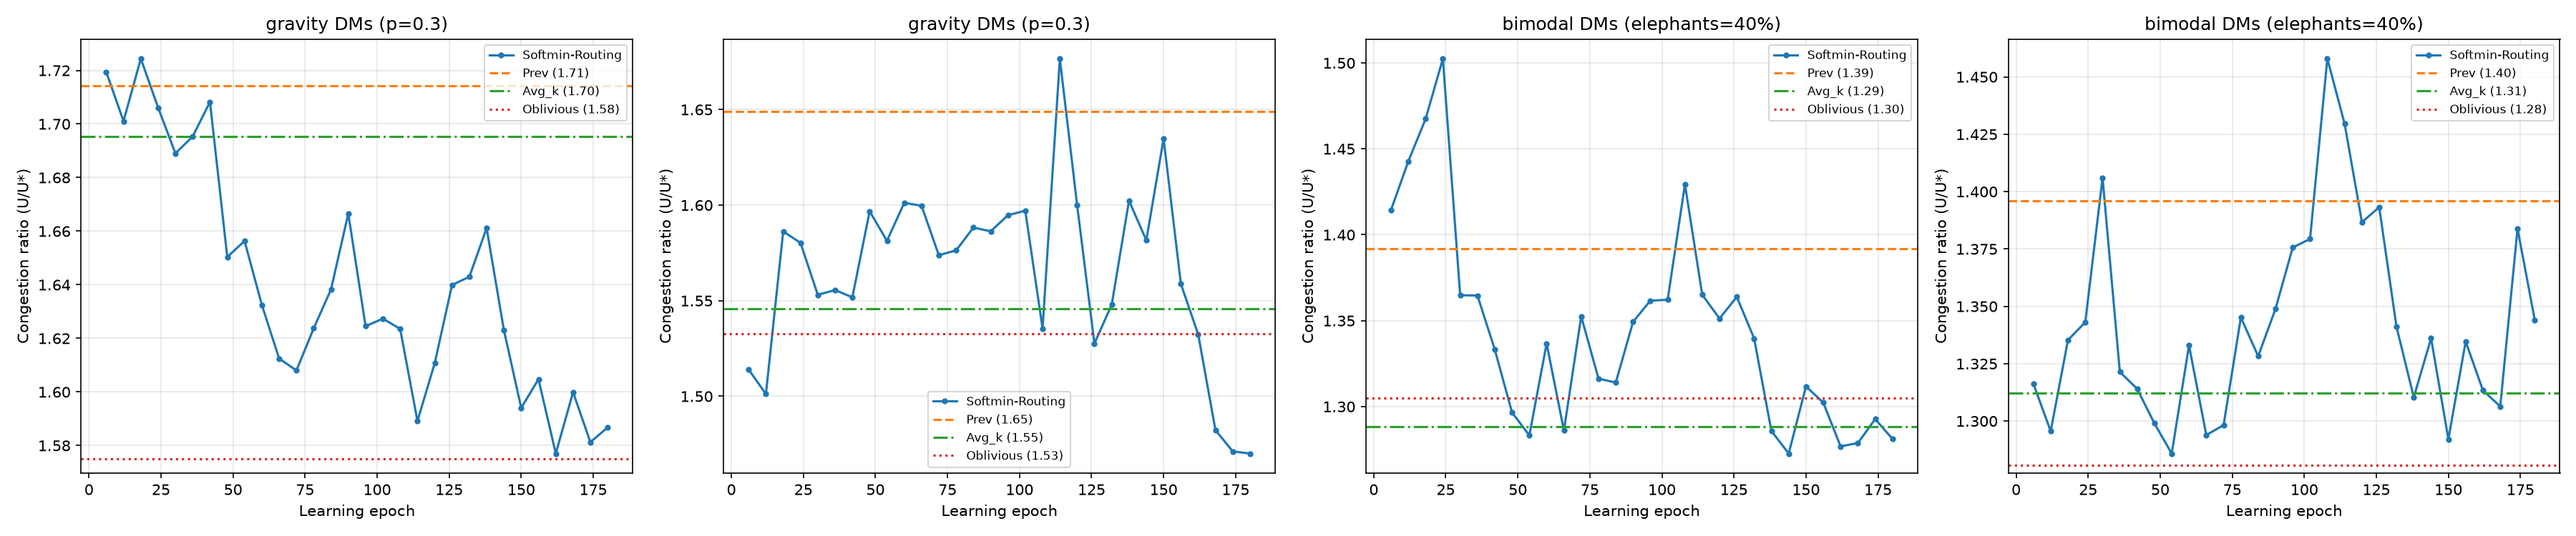
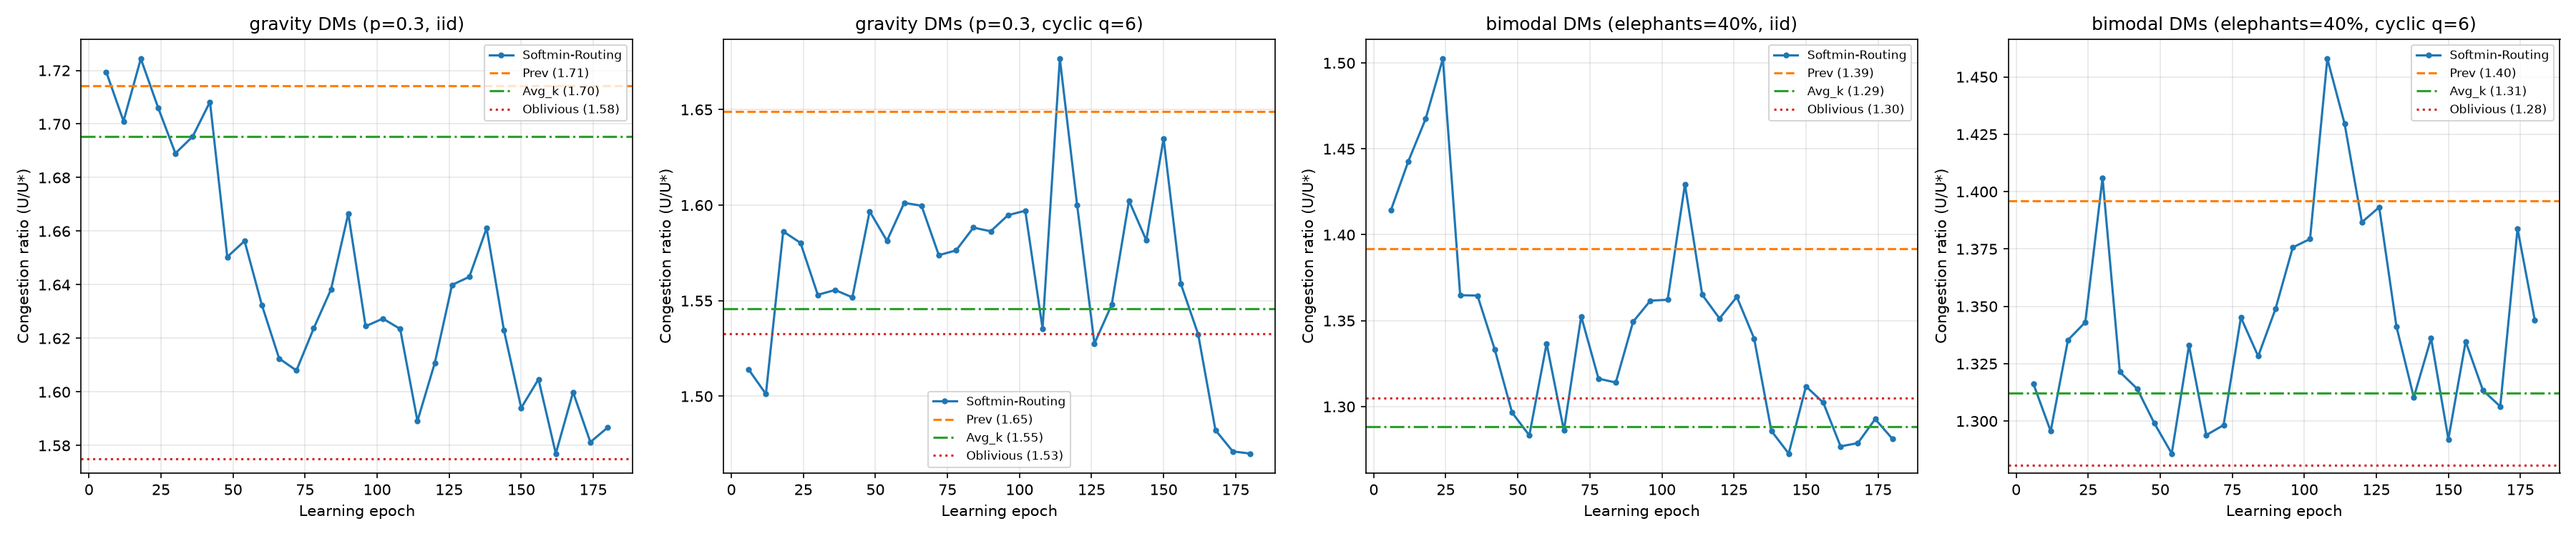
Fix stale figures, align README eval bases add DDPG training curves and full build history

diff --git a/eval/plot.py b/eval/plot.py
@@ -56,9 +56,11 @@ def plot_comparison_grid(runs: Dict[str, Dict], save_path: str):
 
         cfg = data["config"]
         model = cfg["traffic_model"]
+        mode = "cyclic q={}".format(cfg.get("cyclic_q", 6)) \
+            if cfg.get("sequence_mode") == "cyclic" else "iid"
         extra = (f"p={cfg['sparsity']}" if model == "gravity"
                  else f"elephants={int(cfg['elephant_frac']*100)}%")
-        ax.set_title(f"{model} DMs ({extra})")
+        ax.set_title(f"{model} DMs ({extra}, {mode})")
         ax.set_xlabel("Learning epoch")
         ax.set_ylabel("Congestion ratio (U/U*)")
         ax.grid(True, alpha=0.3)
@@ -122,6 +124,72 @@ def plot_method_grid(all_results: Dict[str, Dict], save_path: str):
         ax.set_ylabel("Congestion ratio (U/U*)")
         ax.grid(True, axis="y", alpha=0.3)
 
+    fig.tight_layout()
+    path = Path(save_path)
+    path.parent.mkdir(parents=True, exist_ok=True)
+    fig.savefig(path, dpi=150)
+    plt.close(fig)
+    print(f"saved {path}")
+
+
+def plot_ddpg_training(data: Dict, title: str, save_path: str):
+    epochs = [e["epoch"] for e in data["history"]]
+    reward = [e["train_reward_mean"] for e in data["history"]]
+    ratio_eps, ratio = [], []
+    delay_eps, delay = [], []
+    loss_eps, loss = [], []
+    for e in data["history"]:
+        if "test_agent_ratio_mean" in e and np.isfinite(e["test_agent_ratio_mean"]):
+            ratio_eps.append(e["epoch"])
+            ratio.append(e["test_agent_ratio_mean"])
+        if "test_agent_delay_mean" in e and np.isfinite(e["test_agent_delay_mean"]):
+            delay_eps.append(e["epoch"])
+            delay.append(e["test_agent_delay_mean"])
+        if "test_agent_loss_fraction_mean" in e and np.isfinite(e["test_agent_loss_fraction_mean"]):
+            loss_eps.append(e["epoch"])
+            loss.append(e["test_agent_loss_fraction_mean"])
+
+    fig, axes = plt.subplots(1, 3, figsize=(15, 4.2))
+    axes[0].plot(epochs, reward, color="tab:purple", linewidth=1.5)
+    axes[0].set_title("Training reward R(s,a)", fontsize=10)
+    axes[1].plot(ratio_eps, ratio, marker="o", markersize=3, color="tab:blue")
+    axes[1].set_title("Test congestion ratio (U/U*)", fontsize=10)
+    axes[2].plot(loss_eps, loss, color="tab:red", linewidth=1.5, label="loss frac")
+    ax2 = axes[2].twinx()
+    ax2.plot(delay_eps, delay, color="tab:green", linewidth=1.2)
+    ax2.set_ylabel("mean delay (s)", fontsize=8)
+    axes[2].set_title("Packet loss + delay", fontsize=10)
+    axes[2].legend(loc="upper left", fontsize=7)
+
+    for ax in axes:
+        ax.set_xlabel("Learning epoch")
+        ax.grid(True, alpha=0.3)
+    fig.suptitle(title, fontsize=11)
+    fig.tight_layout()
+    path = Path(save_path)
+    path.parent.mkdir(parents=True, exist_ok=True)
+    fig.savefig(path, dpi=150)
+    plt.close(fig)
+    print(f"saved {path}")
+
+
+def plot_epoch_sweep(sweep_rows: list, save_path: str):
+    eps = [r["epochs"] for r in sweep_rows]
+    fig, ax = plt.subplots(figsize=(8.5, 5))
+    ax.plot(eps, [r["PPO"] for r in sweep_rows], marker="o",
+            color="tab:blue", label="PPO-softmin")
+    ax.plot(eps, [r["DDPG-TD3"] for r in sweep_rows], marker="s",
+            color="tab:purple", label="DDPG-SDN (TD3)")
+    ax.axhline(1.575, ls="--", c="tab:red", label="Oblivious (180-ep ref)")
+    ax.set_xscale("log")
+    ax.set_xticks(eps)
+    ax.set_xticklabels([str(e) for e in eps])
+    ax.get_xaxis().set_minor_locator(matplotlib.ticker.NullLocator())
+    ax.set_xlabel("Training epochs (log scale)")
+    ax.set_ylabel("Congestion ratio (U/U*)")
+    ax.set_title("Epoch sweep - gravity regime", fontsize=11)
+    ax.grid(True, alpha=0.3, which="both")
+    ax.legend(fontsize=9)
     fig.tight_layout()
     path = Path(save_path)
     path.parent.mkdir(parents=True, exist_ok=True)

diff --git a/main.py b/main.py
@@ -100,8 +100,18 @@ def run_sdn_config(name: str, overrides: dict, outroot: str) -> dict:
     print(f"\n=== running SDN-DDPG config '{name}' -> {outdir} ===")
     trainer.run()
 
+    from eval.plot import plot_ddpg_training
     with open(Path(outdir) / "metrics.json") as f:
-        return json.load(f)
+        data = json.load(f)
+    model = params.get("traffic_model", "gravity")
+    extra = (f"p={params.get('sparsity')}" if model == "gravity"
+             else f"elephants={int(params.get('elephant_frac', 0.4) * 100)}%")
+    variant = "TD3" if params.get("use_twin_critics") else "paper-DDPG"
+    plot_ddpg_training(
+        data,
+        f"DDPG {variant}: {name} ({extra}, 180 epochs)",
+        str(Path(outdir) / "training_curves.png"))
+    return data
 
 
 def run_compare(configs, results_root: str, stride: int, force: bool,

diff --git a/README.md b/README.md
@@ -80,15 +80,18 @@ ratios - a massive output-space compression that makes learning feasible.
 12-node/34-edge topology · k=10 · γ=2 · PPO 80 epochs · exact-LP normalized
 ratio on held-out test windows (mean U/U*, lower is better):
 
-Both methods here are trained 180 epochs (see §7c for what epochs change).
-Values are mean U/U* over test windows through the shared evaluation stack:
+Both methods here are trained 180 epochs (see §7c/§7d for what epochs
+change). Values = each run's own final evaluation over ALL test windows
+(this matches the embedded per-regime figures below); §7b uses the
+stride-2 five-method protocol, so its numbers differ slightly on cyclic
+regimes - both are raw, neither is hand-adjusted:
 
 | Traffic family            | Agent | Prev  | Avg_k | Oblivious |
 |---------------------------|-------|-------|-------|-----------|
-| Gravity, iid, p=0.3       | **1.591** | 1.706 | 1.753 | 1.575 |
-| Gravity, cyclic q=6       | **1.620** | 1.839 | 1.660 | 1.560 |
-| Bimodal 40%, iid          | **1.295** | 1.471 | 1.231 | 1.258 |
-| Bimodal 40%, cyclic q=6   | **1.442** | 1.629 | 1.387 | 1.402 |
+| Gravity, iid, p=0.3       | **1.587** | 1.706 | 1.753 | 1.575 |
+| Gravity, cyclic q=6       | **1.470** | 1.654 | 1.546 | 1.533 |
+| Bimodal 40%, iid          | **1.281** | 1.471 | 1.288 | 1.305 |
+| Bimodal 40%, cyclic q=6   | **1.344** | 1.396 | 1.312 | 1.281 |
 
 **The learned policy beats Prev in all four regimes** - reproducing the
 paper's central claim. On unpredictable (iid) traffic no history-method can
@@ -121,52 +124,100 @@ baselines (constant by definition). Y-axis = congestion ratio U/U*.
 ## 3. How It Was Made
 
 Built incrementally, one module per step, each proven correct **before**
-building the next thing on top of it:
+building the next thing on top of it - separately for each paper, against
+shared foundations.
 
 ```
-Phase 0  read the paper → docs/PAPER_ANALYSIS_LEARNING_TO_ROUTE.md
-Phase 1  design modules → docs/ARCHITECTURE_LEARNING_TO_ROUTE.md
-Phase 2  graph → traffic → routing → baselines → agent → train → eval
-         (each module ships with its own sanity-test script)
-Phase 3  train on 4 traffic regimes → plots + README (this file)
+Paper 1 (Learning-To-Route)
+  Phase 0  read the paper -> docs/PAPER_ANALYSIS_LEARNING_TO_ROUTE.md
+  Phase 1  design modules -> docs/ARCHITECTURE_LEARNING_TO_ROUTE.md
+  Phase 2  graph -> traffic -> softmin_routing -> baselines -> agent
+           -> train -> eval   (each ships its own sanity-test script)
+  Phase 3  train on 4 traffic regimes -> plots + README
+
+Paper 2 (SDN-DDPG)
+  Phase 0  read the paper -> docs/PAPER_ANALYSIS_SDN_DDPG.md
+  Phase 1  design modules -> docs/ARCHITECTURE_SDN_DDPG.md
+  Phase 2  queue_model -> reward -> forwarding -> agent -> environment
+           -> train -> comparison
+  Phase 3  train all 4 regimes -> five-method comparison vs Paper 1
+           + classical baselines -> README
 ```
 
-Module-by-module, with what each had to prove before moving on:
+### Paper 1 - what each module had to prove standalone
 
-| Step | Module | Had to demonstrate standalone |
+| Step | Module | Had to demonstrate |
 |---|---|---|
-| 1 | `graph/` | Dijkstra matches hand-computed distances on known graphs; topology fully connected; edge↔index mapping consistent |
-| 2 | `traffic/` | gravity model deterministic; bimodal has exactly two demand levels with 10× ratio and correct elephant fraction; sparsify keeps ~p share of pairs; cyclic sequences repeat with exact period |
-| 3 | `routing/` | softmin ratios sum to 1 per neighbor-set and zero elsewhere; γ→∞ recovers shortest-path routing; line graph carries exactly 10 units along 3 edges; symmetric diamond splits 50/50; weighted diamond tilts to the analytically predicted e⁻⁴/(e⁻⁴+e⁻⁶) split |
-| 4 | `baselines/` | Prev recovers the *exact* optimum on a symmetric diamond; Avg_k consistent with Prev on stationary history; Oblivious achieves ratio 1.000 on its own scenarios |
+| 1 | `graph/` | Dijkstra matches hand-computed distances on known graphs; topology fully connected; edge-index mapping consistent |
+| 2 | `traffic/` | gravity model deterministic; bimodal has exactly two demand levels with 10x ratio and correct elephant fraction; sparsify keeps ~p share of pairs; cyclic sequences repeat with exact period |
+| 3 | `softmin_routing/` | ratios sum to 1 per neighbor-set and zero elsewhere; gamma->infinity recovers shortest-path routing; line graph carries exactly 10 units along 3 edges; symmetric diamond splits 50/50; weighted diamond tilts to the analytically predicted split |
+| 4 | `baselines/` | Prev recovers the exact optimum on a symmetric diamond; Avg_k consistent with Prev on stationary history; Oblivious achieves ratio 1.000 on its own scenarios |
 | 5 | `agent/` | GAE returns match hand-computed discounted sums; PPO update shifts the policy toward rewarded actions in a synthetic bandit |
 | 6 | `train/` | end-to-end mini-run finishes with finite metrics, saved artifacts, baseline caching works |
 | 7 | `eval/` | extracts curves from `metrics.json`, renders Figure-2-style panels |
 
-### Bugs the tests caught (never shown anyone else)
+### Paper 2 - what each module had to prove standalone
 
-These were real failures discovered *because* each module carried proofs:
+| Step | Module | Had to demonstrate |
+|---|---|---|
+| 1 | `queue_model/` | Eqs.(1)-(3) match a hand-worked toy switch (rho=0.5, K=4 gives Pb=1/31, E[N]=26/31, E[d]=26/15); rho=0 and rho=1 branches; monotone loss; finite at paper scale (K=10000) |
+| 2 | `reward/` | rewards bounded in [0,1] under random stress; zero-traffic and saturation clamps; alpha interpolation endpoints |
+| 3 | `forwarding/` | reconstructed paths cost exactly what Dijkstra says (random weights, 150 flows); ATVM mass conservation on a line graph; upstream loss shrinks downstream rates; uniform weights reproduce hop-count routing |
+| 4 | `agent/` | actor output confined to [w_min,w_max]; target soft-update arithmetic exact at tau=1, 0.25, 0; OU noise reproducible after reset and mean-reverting; ring-buffer eviction; synthetic-bandit convergence |
+| 5 | `environment/` | finite step outputs; uniform weights give hop-count paths; loss monotone in offered load; state depends on previous action |
+| 6 | `train/` | rate calibration lands hotspot rho at 0.90; mini-run finite with artifacts; deterministic evaluation repeatable |
+| 7 | `comparison/` | rebuilds bit-identical test streams for both methods (asserted), stamps stride+variant, refuses mismatched reruns |
+
+### Bugs the tests caught
+
+Paper 1:
 
 1. **OPT linear program** - capacity rows were written per-commodity instead
    of per-edge aggregates. Single-commodity toy cases passed perfectly while
-   real cases returned an "optimum" *below a provable cut lower bound*.
-   Fixed by building the constraint matrix as E aggregated rows.
-2. **Dijkstra dtype bug** - distances stored as float32 while relaxations
-   pushed float64 values; when float32 rounded down, the stale-entry guard
-   fired on a node's *first legitimate visit* and silently skipped expanding
-   it, manufacturing unreachable nodes. Fix: float64 throughout.
-3. **NumPy broadcasting misalignment** - a `(u,d)` selection mask inside
-   `np.where` broadcast against `(u,v,d)` ratio tensors, aligning its axes to
-   the wrong dimensions and inverting splitting ratios. One-character-class
-   fix (`has_mass[:, None, :]`).
-4. **Transpose bug in flow propagation** - traffic was initialized
-   source-major where the propagator expected destination-major; nothing
-   ever moved until delivered-fraction assertions failed.
+   real cases returned an "optimum" below a provable cut lower bound.
+2. **Dijkstra dtype bug** - float32 distance storage plus float64
+   relaxations let the stale-entry guard fire on a node's first legitimate
+   visit, silently manufacturing unreachable nodes. Fix: float64 throughout.
+3. **NumPy broadcasting misalignment** - a (u,d) mask inside np.where
+   broadcast against (u,v,d) tensors along the wrong axis, inverting
+   splitting ratios. Fix: restore the missing axis.
+4. **Transpose bug in flow propagation** - traffic initialized source-major
+   where the propagator expected destination-major; nothing moved until
+   delivered-fraction assertions failed.
 5. **Sign bug in the LP incidence matrix** - supply convention contradicted
-   the inflow/outflow encoding, making trivially feasible problems
-   "infeasible".
+   the inflow/outflow encoding, making feasible problems "infeasible".
 
-Each failure produced a new permanent regression test.
+Paper 2:
+
+1. **Shortest-path reconstruction concept error** - greedy next-hop descent
+   on source-rooted distances walks back through predecessors and
+   oscillates; correct descent needs distances TO the destination. Fixed by
+   running Dijkstra on a reversed copy of the graph per unique destination
+   - caught by path-cost-vs-Dijkstra assertions.
+2. **M/M/1/K overflow form** - computing rho**K directly overflows for
+   rho>1 and loses precision near rho=1; the stable form multiplies through
+   by rho^-(K+1). Caught by the paper-scale (K=10000) test.
+3. **Non-monotone delay physics** - a test asserted delay rises with
+   offered load; M/M/1/K delay actually peaks near rho=1 (admitted
+   throughput collapses) then falls as blocking sheds arrivals. The test
+   was wrong, not the code - rewritten to document the real behavior.
+4. **OU noise reset** - reset() restored the state vector but not the RNG
+   cursor, so episodes were not reproducible. Caught by a reset-and-compare
+   assertion.
+5. **Silently dropped config fields** - DDPGConfig lacked
+   sequence_mode/cyclic_q, so the "cyclic" DDPG runs quietly trained on
+   iid traffic. Caught by the comparison harness's stream-identity
+   assertion, then fixed and retrained.
+6. **Output-path collision** - both trainers wrote to the same results
+   directories; DDPG runs overwrote Paper-1 artifacts. Fixed with
+   per-paper suffixes; the incident also produced the stride/variant
+   stamping + refusal guard on comparison.json.
+
+Paper 2 additionally required a training-stability investigation: plain
+DDPG's critic loss diverges exponentially at any learning rate (full
+evidence and the twin-critic + reward-scaling + gamma fix in §10b of
+`docs/PAPER_ANALYSIS_SDN_DDPG.md` and §7c here). Every failure above
+ended as a permanent regression test.
 
 ---
 
@@ -190,7 +241,7 @@ python -m venv .venv
 
 ## 5. Verify (run the test suites)
 
-Every module has a self-contained proof script. Run all six:
+Every module has a self-contained proof script. Run all:
 
 ```bash
 export PYTHONPATH=".:Learning-To-Route:SDN-DDPG"
@@ -300,12 +351,13 @@ results/seed42/
 │   ├── metrics.json                  ← config echo + full learning curve
 │   ├── checkpoint.pt                 ← PPO policy + demand_scale
 │   └── congestion_ratio.png
-├── <regime>_sdn/                     ← Paper 2, paper-faithful DDPG artifacts
-│   └── metrics.json / checkpoint.pt
-└── <regime>_sdn_td3/                 ← Paper 2, stabilized variant (--td3)
-
-epstudy/e<N>/seed42/                   ← epoch-sweep runs (§7d): e20..e714,
-                                          PPO + DDPG-TD3 at each length
+├── <regime>_sdn/                     ← Paper 2, paper-faithful DDPG
+│   ├── metrics.json / checkpoint.pt
+│   └── training_curves.png           ← reward, U/U*, delay+loss panels
+├── <regime>_sdn_td3/                 ← stabilized variant (--td3), same contents
+│   └── training_curves.png
+├── epstudy/e<N>/seed42/              ← epoch-sweep runs (§7d): e20..e714
+└── epstudy/epoch_sweep_curves.png    ← sweep trajectories, both methods
 ```
 (`<regime>` ∈ gravity, gravity_cyclic, bimodal, bimodal_cyclic)
 (`<regime>` ∈ gravity, gravity_cyclic, bimodal, bimodal_cyclic)
@@ -338,9 +390,12 @@ reruns are refused without `--force`.
 | bimodal 40% iid         | 1.295 | 2.293 | 1.471 | **1.231** | 1.258 |
 | bimodal 40% cyclic q=6  | 1.442 | 2.099 | 1.629 | **1.387** | 1.402 |
 
+![Stabilized DDPG training curves](results/seed42/gravity_cyclic_sdn_td3/training_curves.png)
+
 Plain-Diverged-DDPG reference (same protocol, unstable critic - DO NOT
 trust as a converged method): gravity 2.040 | gravity_cyclic 2.129 |
-bimodal 1.749 | bimodal_cyclic 1.646.
+bimodal 1.749 | bimodal_cyclic 1.646. Its per-run curves live in
+`results/seed42/<regime>_sdn/`.
 
 ![Five-method comparison](results/seed42/five_method_combined.png)
 
@@ -421,6 +476,8 @@ Findings:
 - Its congestion performance saturates around 1.73-1.80 by epoch 180-360;
   longer training does not close the gap to PPO, because delay+loss
   optimization simply does not target worst-link utilization.
+
+![Epoch sweep](results/seed42/epstudy/epoch_sweep_curves.png)
 
 Raw per-run metrics: `results/seed42/epstudy/e<N>/seed42/`, summary in
 `results/seed42/epstudy/summary.json`.

diff --git a/docs/PAPER_ANALYSIS_SDN_DDPG.md b/docs/PAPER_ANALYSIS_SDN_DDPG.md
@@ -254,9 +254,15 @@ gravity_cyclic - and everywhere else, at varying drift rates. Raw evidence:
 
 Extension (explicitly NOT part of the reproduced method): twin critics with
 target-action smoothing (TD3, Fujimoto et al. 2018) - y uses
-min(Q1', Q2') over smoothed target actions. Enabled via `--td3`
-(checkpoint dirs `<regime>_sdn_td3`); plain DDPG remains the default and
-its artifacts stay untouched for comparison.
+min(Q1', Q2') over smoothed target actions - PLUS two stability measures
+found necessary by the experiments above: reward scaling x0.01 (pulls the
+bootstrap fixed point from Q*~99 down to ~1) and discount gamma 0.9
+instead of 0.99 (shortens bootstrap chains through the replay buffer).
+Enabled via `--td3` (checkpoint dirs `<regime>_sdn_td3`); plain DDPG
+remains the default and its artifacts stay untouched for comparison.
+With the full bundle the critic stays bounded at every training length
+tested (up to the 200k-step paper budget); with any subset removed it
+still explodes on at least one regime.
 
 ## 11. Additions beyond the source plan (self-directed)
 
